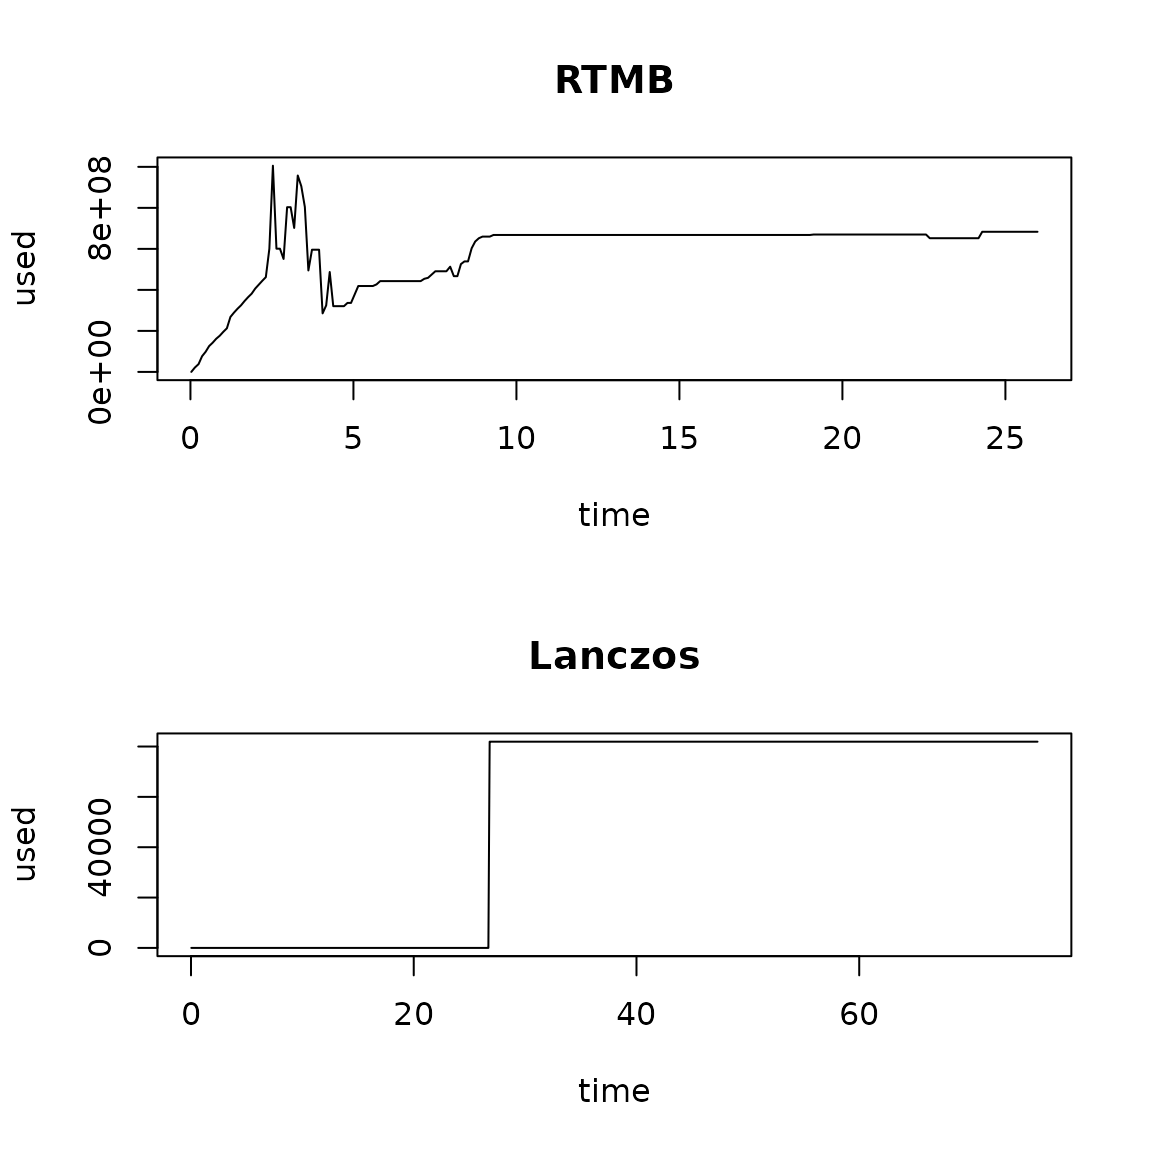
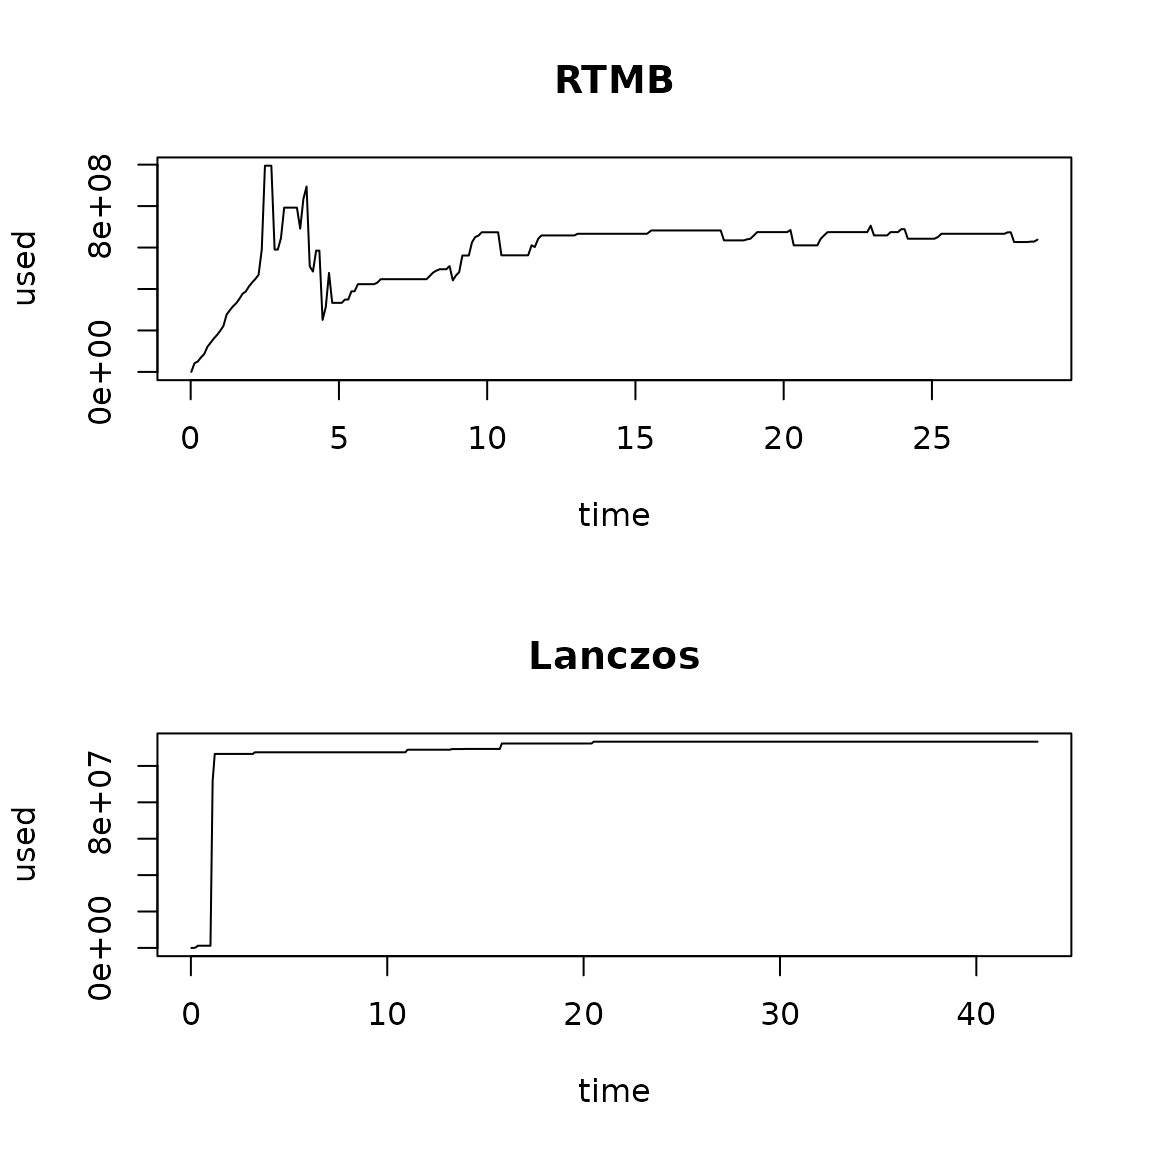
Deploying to gh-pages from @ James-Thorson/lanczosRTMB@0638a834b1237cc47b245ba1065dc1aa3ab2ac1c 🚀

diff --git a/articles/lanczos.html b/articles/lanczos.html
@@ -174,20 +174,20 @@ factorization that is default in TMB:</p>
 <span><span class="va">opt_pen0</span></span>
 <span><span class="co">#&gt; $par</span></span>
 <span><span class="co">#&gt;         mu      logsd      logcv </span></span>
-<span><span class="co">#&gt; -0.1084795 -0.1284993 -0.6074894 </span></span>
+<span><span class="co">#&gt; -0.1051230 -0.1327639 -0.5981617 </span></span>
 <span><span class="co">#&gt; </span></span>
 <span><span class="co">#&gt; $objective</span></span>
-<span><span class="co">#&gt; [1] 36.46912</span></span>
+<span><span class="co">#&gt; [1] 36.46907</span></span>
 <span><span class="co">#&gt; </span></span>
 <span><span class="co">#&gt; $convergence</span></span>
 <span><span class="co">#&gt; [1] 1</span></span>
 <span><span class="co">#&gt; </span></span>
 <span><span class="co">#&gt; $iterations</span></span>
-<span><span class="co">#&gt; [1] 11</span></span>
+<span><span class="co">#&gt; [1] 25</span></span>
 <span><span class="co">#&gt; </span></span>
 <span><span class="co">#&gt; $evaluations</span></span>
 <span><span class="co">#&gt; function gradient </span></span>
-<span><span class="co">#&gt;       31       35 </span></span>
+<span><span class="co">#&gt;       51      110 </span></span>
 <span><span class="co">#&gt; </span></span>
 <span><span class="co">#&gt; $message</span></span>
 <span><span class="co">#&gt; [1] "false convergence (8)"</span></span></code></pre></div>
@@ -470,15 +470,17 @@ likelihood, pending improvements:</p>
 <span><span class="co">#&gt;   5:     4317.8220: 0.572487 0.943031 0.664725</span></span>
 <span><span class="co">#&gt;   6:     4241.6747: 0.867865  1.33917 0.795902</span></span>
 <span><span class="co">#&gt;   7:     4233.7632: 0.913843  1.76282 0.513434</span></span>
-<span><span class="co">#&gt;   8:     4207.2456:  1.15432  2.20977 0.575032</span></span>
-<span><span class="co">#&gt;   9:     4197.9787:  1.17506  2.14095  1.08121</span></span>
-<span><span class="co">#&gt;  10:     4197.7064:  1.14958  2.20339  1.07714</span></span>
-<span><span class="co">#&gt;  11:     4196.6089:  1.18898  2.25242  1.05250</span></span>
-<span><span class="co">#&gt;  12:     4196.4771:  1.21185  2.30709  1.06016</span></span>
-<span><span class="co">#&gt;  13:     4196.4713:  1.21173  2.30214  1.07852</span></span>
-<span><span class="co">#&gt;  14:     4196.4690:  1.21191  2.30541  1.07388</span></span>
-<span><span class="co">#&gt;  15:     4196.4690:  1.21188  2.30538  1.07398</span></span>
-<span><span class="co">#&gt;  16:     4196.4690:  1.21188  2.30538  1.07398</span></span>
+<span><span class="co">#&gt;   8:     4207.2454:  1.15432  2.20977 0.575037</span></span>
+<span><span class="co">#&gt;   9:     4197.9785:  1.17504  2.14093  1.08121</span></span>
+<span><span class="co">#&gt;  10:     4197.7042:  1.14963  2.20345  1.07708</span></span>
+<span><span class="co">#&gt;  11:     4196.6085:  1.18903  2.25257  1.05242</span></span>
+<span><span class="co">#&gt;  12:     4196.4770:  1.21183  2.30698  1.06026</span></span>
+<span><span class="co">#&gt;  13:     4196.4713:  1.21172  2.30213  1.07848</span></span>
+<span><span class="co">#&gt;  14:     4196.4690:  1.21191  2.30542  1.07388</span></span>
+<span><span class="co">#&gt;  15:     4196.4690:  1.21191  2.30542  1.07388</span></span>
+<span><span class="co">#&gt;  16:     4196.4690:  1.21191  2.30542  1.07388</span></span>
+<span><span class="co">#&gt;  17:     4196.4690:  1.21191  2.30542  1.07388</span></span>
+<span><span class="co">#&gt;  18:     4196.4690:  1.21191  2.30542  1.07388</span></span>
 <span><span class="va">fit_lanczos</span><span class="op">$</span><span class="va">run_time</span> <span class="op">=</span> <span class="fu"><a href="https://rdrr.io/r/base/Sys.time.html" class="external-link">Sys.time</a></span><span class="op">(</span><span class="op">)</span> <span class="op">-</span> <span class="va">start_time</span></span></code></pre></div>
 <p>Where we can compare the runtime for the two models:</p>
 <div class="sourceCode" id="cb20"><pre class="downlit sourceCode r">
@@ -496,11 +498,11 @@ likelihood, pending improvements:</p>
 <tbody>
 <tr class="odd">
 <td align="left">RTMB</td>
-<td align="left">26.65 secs</td>
+<td align="left">29.16 secs</td>
 </tr>
 <tr class="even">
 <td align="left">Lanczos</td>
-<td align="left">82.97 secs</td>
+<td align="left">50.04 secs</td>
 </tr>
 </tbody>
 </table>
@@ -514,7 +516,31 @@ likelihood, pending improvements:</p>
 <span><span class="va">mem2</span><span class="op">[</span>,<span class="st">'used'</span><span class="op">]</span> <span class="op">=</span> <span class="va">mem2</span><span class="op">[</span>,<span class="st">'used'</span><span class="op">]</span> <span class="op">-</span> <span class="fu"><a href="https://rdrr.io/r/base/Extremes.html" class="external-link">min</a></span><span class="op">(</span><span class="va">mem2</span><span class="op">[</span>,<span class="st">'used'</span><span class="op">]</span><span class="op">)</span></span>
 <span><span class="fu"><a href="https://rdrr.io/r/graphics/plot.default.html" class="external-link">plot</a></span><span class="op">(</span> <span class="va">mem2</span>, type <span class="op">=</span> <span class="st">"l"</span>, main <span class="op">=</span> <span class="st">"Lanczos"</span><span class="op">)</span></span></code></pre></div>
 <p><img src="lanczos_files/figure-html/unnamed-chunk-20-1.png" class="r-plt" alt="" width="576"></p>
-<p>Runtime for this vignette: 2.3 mins</p>
+<p>which shows that Lanczos uses substantially less memory:</p>
+<div class="sourceCode" id="cb22"><pre class="downlit sourceCode r">
+<code class="sourceCode R"><span><span class="va">max_memory</span> <span class="op">=</span> <span class="fu"><a href="https://rdrr.io/r/base/c.html" class="external-link">c</a></span><span class="op">(</span></span>
+<span>  RTMB <span class="op">=</span> <span class="fu"><a href="https://rdrr.io/r/base/Extremes.html" class="external-link">max</a></span><span class="op">(</span><span class="va">mem1</span><span class="op">[</span>,<span class="st">'used'</span><span class="op">]</span><span class="op">)</span>,</span>
+<span>  Lanczos <span class="op">=</span> <span class="fu"><a href="https://rdrr.io/r/base/Extremes.html" class="external-link">max</a></span><span class="op">(</span><span class="va">mem2</span><span class="op">[</span>,<span class="st">'used'</span><span class="op">]</span><span class="op">)</span></span>
+<span><span class="op">)</span></span>
+<span><span class="fu">knitr</span><span class="fu">::</span><span class="fu"><a href="https://rdrr.io/pkg/knitr/man/kable.html" class="external-link">kable</a></span><span class="op">(</span> <span class="va">max_memory</span>, digits<span class="op">=</span><span class="fl">2</span>, caption<span class="op">=</span><span class="st">"Maximum memory use"</span> <span class="op">)</span></span></code></pre></div>
+<table class="table">
+<caption>Maximum memory use</caption>
+<thead><tr class="header">
+<th align="left"></th>
+<th align="right">x</th>
+</tr></thead>
+<tbody>
+<tr class="odd">
+<td align="left">RTMB</td>
+<td align="right">994938880</td>
+</tr>
+<tr class="even">
+<td align="left">Lanczos</td>
+<td align="right">113315840</td>
+</tr>
+</tbody>
+</table>
+<p>Runtime for this vignette: 1.86 mins</p>
 <div class="section level3">
 <h3 id="works-cited">Works cited<a class="anchor" aria-label="anchor" href="#works-cited"></a>
 </h3>

diff --git a/reference/lanczos_MakeADFun.html b/reference/lanczos_MakeADFun.html
@@ -184,13 +184,13 @@ approximation is only performs well when recalculating the Lanczos matrix \(Q\).
 <span class="r-in"><span><span class="va">opt2</span> <span class="op">=</span> <span class="fu"><a href="https://rdrr.io/r/stats/nlminb.html" class="external-link">nlminb</a></span><span class="op">(</span> <span class="va">obj2</span><span class="op">$</span><span class="va">par</span>, <span class="va">obj2</span><span class="op">$</span><span class="va">fn</span>, <span class="va">obj2</span><span class="op">$</span><span class="va">gr</span> <span class="op">)</span></span></span>
 <span class="r-in"><span><span class="va">opt</span><span class="op">$</span><span class="va">par</span> <span class="op">-</span> <span class="va">opt2</span><span class="op">$</span><span class="va">par</span></span></span>
 <span class="r-out co"><span class="r-pr">#&gt;</span>         mu      logsd      logcv </span>
-<span class="r-out co"><span class="r-pr">#&gt;</span> -0.1585939  0.1860163 -5.7699826 </span>
+<span class="r-out co"><span class="r-pr">#&gt;</span> -0.1585838  0.1860306 -6.1881942 </span>
 <span class="r-in"><span></span></span>
 <span class="r-in"><span><span class="co"># Fit again using FD gradient for Lanczos method using fixed probe-recursion</span></span></span>
 <span class="r-in"><span><span class="va">opt3</span> <span class="op">=</span> <span class="fu"><a href="https://rdrr.io/r/stats/optim.html" class="external-link">optim</a></span><span class="op">(</span> <span class="va">obj</span><span class="op">$</span><span class="va">par</span>, <span class="va">obj</span><span class="op">$</span><span class="va">fn</span>, <span class="va">obj</span><span class="op">$</span><span class="va">gr</span>, method <span class="op">=</span> <span class="st">"BFGS"</span> <span class="op">)</span></span></span>
 <span class="r-in"><span><span class="va">opt3</span><span class="op">$</span><span class="va">par</span> <span class="op">-</span> <span class="va">opt2</span><span class="op">$</span><span class="va">par</span></span></span>
 <span class="r-out co"><span class="r-pr">#&gt;</span>            mu         logsd         logcv </span>
-<span class="r-out co"><span class="r-pr">#&gt;</span>  2.661035e-05 -3.771977e-05  8.892734e-05 </span>
+<span class="r-out co"><span class="r-pr">#&gt;</span>  2.661278e-05 -3.772214e-05  8.893316e-05 </span>
 <span class="r-in"><span></span></span>
 </code></pre></div>
     </div>

diff --git a/reference/make_Hq.html b/reference/make_Hq.html
@@ -173,10 +173,10 @@ forward-on-reverse (and FD of autodiff gradients) is efficient given that
 <span class="r-out co"><span class="r-pr">#&gt;</span>   0.006   0.000   0.006 </span>
 <span class="r-in"><span><span class="fu"><a href="https://rdrr.io/r/base/system.time.html" class="external-link">system.time</a></span><span class="op">(</span><span class="fu">Hq2</span><span class="op">(</span><span class="va">q</span>, <span class="va">x_new</span>, update_H <span class="op">=</span> <span class="cn">FALSE</span><span class="op">)</span><span class="op">)</span></span></span>
 <span class="r-out co"><span class="r-pr">#&gt;</span>    user  system elapsed </span>
-<span class="r-out co"><span class="r-pr">#&gt;</span>   0.001   0.000   0.000 </span>
+<span class="r-out co"><span class="r-pr">#&gt;</span>       0       0       0 </span>
 <span class="r-in"><span><span class="fu"><a href="https://rdrr.io/r/base/system.time.html" class="external-link">system.time</a></span><span class="op">(</span><span class="fu">Hq3</span><span class="op">(</span><span class="va">q</span>, <span class="va">x_new</span><span class="op">)</span><span class="op">)</span></span></span>
 <span class="r-out co"><span class="r-pr">#&gt;</span>    user  system elapsed </span>
-<span class="r-out co"><span class="r-pr">#&gt;</span>   0.000   0.000   0.001 </span>
+<span class="r-out co"><span class="r-pr">#&gt;</span>       0       0       0 </span>
 </code></pre></div>
     </div>
   </main><aside class="col-md-3"><nav id="toc" aria-label="Table of contents"><h2>On this page</h2>

diff --git a/reference/newton_CG.html b/reference/newton_CG.html
@@ -244,10 +244,10 @@ This smartsearch behavior controlled by <code>u0</code>, <code>ustep</code>,
 <span class="r-plt img"><img src="newton_CG-1.png" alt="" width="700" height="433"></span>
 <span class="r-in"><span><span class="fu"><a href="https://rdrr.io/r/base/c.html" class="external-link">c</a></span><span class="op">(</span><span class="va">opt1</span><span class="op">$</span><span class="va">runtime</span>, <span class="va">opt2</span><span class="op">$</span><span class="va">runtime</span><span class="op">)</span></span></span>
 <span class="r-out co"><span class="r-pr">#&gt;</span> Time differences in secs</span>
-<span class="r-out co"><span class="r-pr">#&gt;</span> [1]  6.577487 17.788002</span>
+<span class="r-out co"><span class="r-pr">#&gt;</span> [1]  3.635158 10.073711</span>
 <span class="r-in"><span><span class="co"># newton_CG finds a slightly better fit</span></span></span>
 <span class="r-in"><span><span class="fu"><a href="https://rdrr.io/r/base/c.html" class="external-link">c</a></span><span class="op">(</span><span class="va">opt1</span><span class="op">$</span><span class="va">value</span>, <span class="va">opt2</span><span class="op">$</span><span class="va">value</span><span class="op">)</span></span></span>
-<span class="r-out co"><span class="r-pr">#&gt;</span> [1] -1220.361 -1220.471</span>
+<span class="r-out co"><span class="r-pr">#&gt;</span> [1] -1220.341 -1220.471</span>
 <span class="r-in"><span></span></span>
 </code></pre></div>
     </div>

diff --git a/articles/lanczos.md b/articles/lanczos.md
@@ -123,20 +123,20 @@ opt_pen0 = nlminb( pen0$par, pen0$fn )
 opt_pen0
 #> $par
 #>         mu      logsd      logcv 
-#> -0.1084795 -0.1284993 -0.6074894 
+#> -0.1051230 -0.1327639 -0.5981617 
 #> 
 #> $objective
-#> [1] 36.46912
+#> [1] 36.46907
 #> 
 #> $convergence
 #> [1] 1
 #> 
 #> $iterations
-#> [1] 11
+#> [1] 25
 #> 
 #> $evaluations
 #> function gradient 
-#>       31       35 
+#>       51      110 
 #> 
 #> $message
 #> [1] "false convergence (8)"
@@ -467,15 +467,17 @@ fit_lanczos = with_monitor(
 #>   5:     4317.8220: 0.572487 0.943031 0.664725
 #>   6:     4241.6747: 0.867865  1.33917 0.795902
 #>   7:     4233.7632: 0.913843  1.76282 0.513434
-#>   8:     4207.2456:  1.15432  2.20977 0.575032
-#>   9:     4197.9787:  1.17506  2.14095  1.08121
-#>  10:     4197.7064:  1.14958  2.20339  1.07714
-#>  11:     4196.6089:  1.18898  2.25242  1.05250
-#>  12:     4196.4771:  1.21185  2.30709  1.06016
-#>  13:     4196.4713:  1.21173  2.30214  1.07852
-#>  14:     4196.4690:  1.21191  2.30541  1.07388
-#>  15:     4196.4690:  1.21188  2.30538  1.07398
-#>  16:     4196.4690:  1.21188  2.30538  1.07398
+#>   8:     4207.2454:  1.15432  2.20977 0.575037
+#>   9:     4197.9785:  1.17504  2.14093  1.08121
+#>  10:     4197.7042:  1.14963  2.20345  1.07708
+#>  11:     4196.6085:  1.18903  2.25257  1.05242
+#>  12:     4196.4770:  1.21183  2.30698  1.06026
+#>  13:     4196.4713:  1.21172  2.30213  1.07848
+#>  14:     4196.4690:  1.21191  2.30542  1.07388
+#>  15:     4196.4690:  1.21191  2.30542  1.07388
+#>  16:     4196.4690:  1.21191  2.30542  1.07388
+#>  17:     4196.4690:  1.21191  2.30542  1.07388
+#>  18:     4196.4690:  1.21191  2.30542  1.07388
 fit_lanczos$run_time = Sys.time() - start_time
 ```
 
@@ -492,8 +494,8 @@ knitr::kable( runtime, digits=2, caption="Run-times" )
 
 |         | x          |
 |:--------|:-----------|
-| RTMB    | 26.65 secs |
-| Lanczos | 82.97 secs |
+| RTMB    | 29.16 secs |
+| Lanczos | 50.04 secs |
 
 Run-times {.table}
 
@@ -512,6 +514,24 @@ plot( mem2, type = "l", main = "Lanczos")
 
 ![](lanczos_files/figure-html/unnamed-chunk-20-1.png)
 
-Runtime for this vignette: 2.3 mins
+which shows that Lanczos uses substantially less memory:
+
+``` r
+
+max_memory = c(
+  RTMB = max(mem1[,'used']),
+  Lanczos = max(mem2[,'used'])
+)
+knitr::kable( max_memory, digits=2, caption="Maximum memory use" )
+```
+
+|         |         x |
+|:--------|----------:|
+| RTMB    | 994938880 |
+| Lanczos | 113315840 |
+
+Maximum memory use {.table}
+
+Runtime for this vignette: 1.86 mins
 
 ### Works cited

diff --git a/reference/lanczos_MakeADFun.md b/reference/lanczos_MakeADFun.md
@@ -160,11 +160,11 @@ obj2 = MakeADFun( nll, parlist, random = "u", silent = TRUE )
 opt2 = nlminb( obj2$par, obj2$fn, obj2$gr )
 opt$par - opt2$par
 #>         mu      logsd      logcv 
-#> -0.1585939  0.1860163 -5.7699826 
+#> -0.1585838  0.1860306 -6.1881942 
 
 # Fit again using FD gradient for Lanczos method using fixed probe-recursion
 opt3 = optim( obj$par, obj$fn, obj$gr, method = "BFGS" )
 opt3$par - opt2$par
 #>            mu         logsd         logcv 
-#>  2.661035e-05 -3.771977e-05  8.892734e-05 
+#>  2.661278e-05 -3.772214e-05  8.893316e-05 
 ```

diff --git a/reference/make_Hq.md b/reference/make_Hq.md
@@ -144,8 +144,8 @@ system.time(Hq2(q, x_new))
 #>   0.006   0.000   0.006 
 system.time(Hq2(q, x_new, update_H = FALSE))
 #>    user  system elapsed 
-#>   0.001   0.000   0.000 
+#>       0       0       0 
 system.time(Hq3(q, x_new))
 #>    user  system elapsed 
-#>   0.000   0.000   0.001 
+#>       0       0       0 
 ```

diff --git a/reference/newton_CG.md b/reference/newton_CG.md
@@ -210,8 +210,8 @@ matplot( cbind(opt1$par, opt2$par), type = "l", col = c("black","blue","red"), l
 
 c(opt1$runtime, opt2$runtime)
 #> Time differences in secs
-#> [1]  6.577487 17.788002
+#> [1]  3.635158 10.073711
 # newton_CG finds a slightly better fit
 c(opt1$value, opt2$value)
-#> [1] -1220.361 -1220.471
+#> [1] -1220.341 -1220.471
 ```